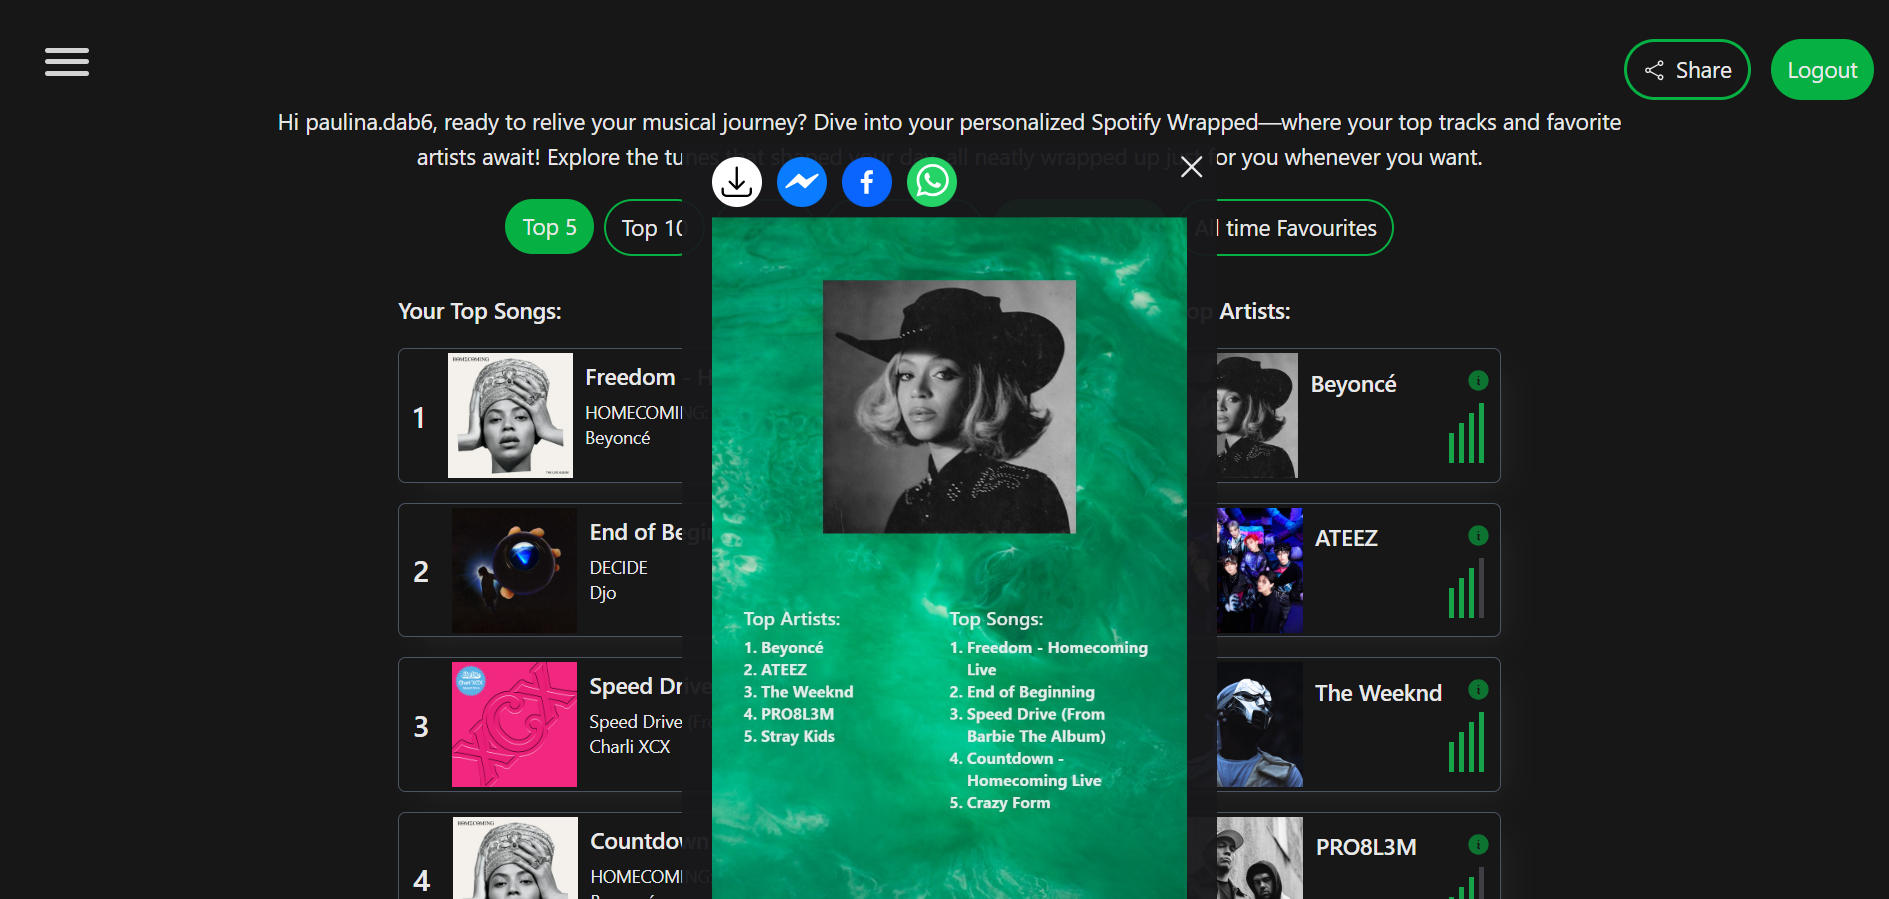
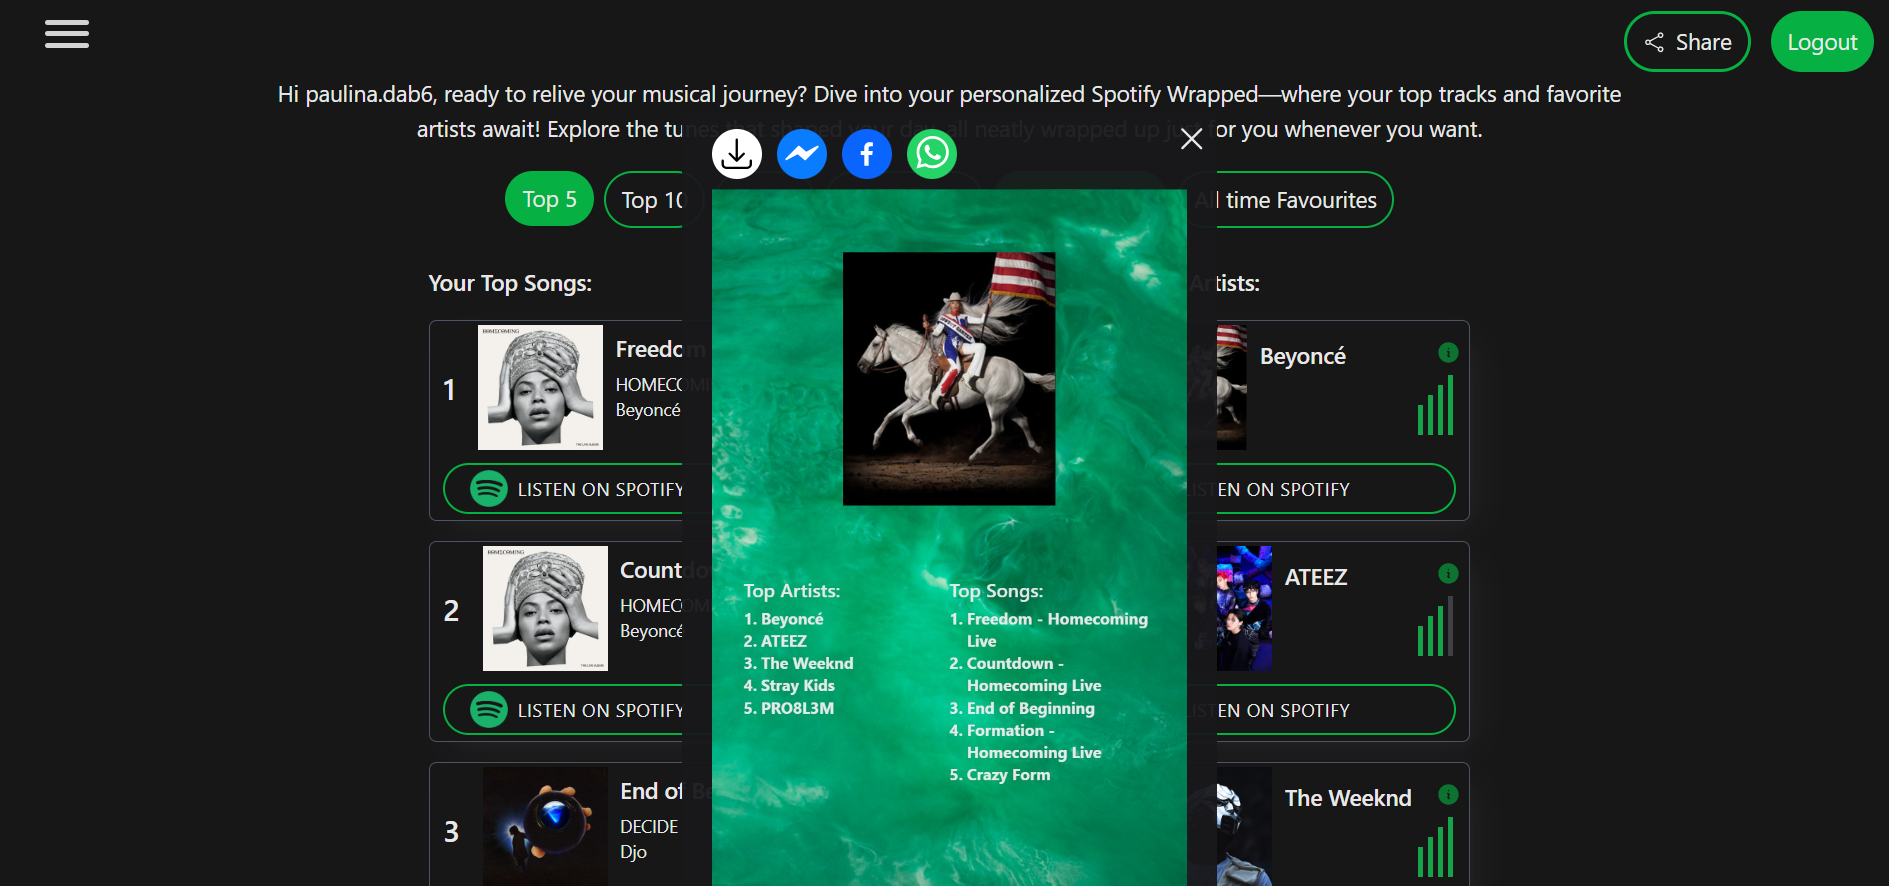
update to spotify policy

Changed region(s): [[0.1562, 0.0, 0.9995, 1.0], [0.0, 0.0305, 0.0625, 0.0914]]

diff --git a/src/components/Track.jsx b/src/components/Track.jsx
@@ -1,4 +1,5 @@
 import React, { useEffect, useState } from 'react';
+import { Link} from 'react-router-dom';
 import axios from 'axios';
 //icons
 import { InformationCircleIcon } from '@heroicons/react/24/solid';
@@ -36,42 +37,63 @@ export const Track = ({track, number, token}) => {
   const toggle = () =>{setIsInfoVisible(!isInfoVisible)}
 
   return (
-    <div className='flex items-center justify-between min-h-[90px] border-solid border-[1px] border-gray-600 rounded-md my-4 p-[3px] shadow-[10px_10px_25px_-10px_rgba(110,110,110,0.2)] bg-inherit animate-fadeUp'>
+    <div className='min-h-[90px] border-solid border-[1px] border-gray-600 rounded-md my-4 p-[3px] shadow-[10px_10px_25px_-10px_rgba(110,110,110,0.2)] bg-inherit animate-fadeUp'>
       <div
-        className='bg-inherit flex'
+        className='flex items-center justify-between mb-[10px]'
       >
-        <p
-          className='px-[8px] text-xl sm:text-2xl font-semibold bg-inherit my-auto'
-        >
-          {nr + 1}
-        </p>
-        <img 
-          src={window.innerWidth <= 650 ? track.album.images[2].url : track.album.images[1].url}
-          className='max-w-[100px] my-[5px] mx-[10px] my-auto'
-          alt='Song'
-        />
         <div
-          className='bg-inherit h-full flex flex-col justify-start mt-[5px]'
+          className='bg-inherit flex'
         >
-          <p className='bg-inherit text-sm sm:text-lg font-semibold mb-[4px]'>{track.name}</p>
-          <p className='bg-inherit text-[12px] sm:text-sm'>{track.album.name}</p>
-          <p className='bg-inherit text-[12px] sm:text-sm'>{track.artists[0].name}</p>
+          <p
+            className='px-[8px] text-xl sm:text-2xl font-semibold bg-inherit my-auto'
+          >
+            {nr + 1}
+          </p>
+          <img 
+            src={window.innerWidth <= 650 ? track.album.images[2].url : track.album.images[1].url}
+            className='max-w-[100px] my-[5px] mx-[10px] my-auto'
+            alt='Song'
+          />
+          <div
+            className='bg-inherit h-full flex flex-col justify-start mt-[5px]'
+          >
+            <p className='bg-inherit text-sm sm:text-lg font-semibold mb-[4px]'>{track.name}</p>
+            <p className='bg-inherit text-[12px] sm:text-sm'>{track.album.name}</p>
+            <p className='bg-inherit text-[12px] sm:text-sm'>{track.artists[0].name}</p>
+          </div>
+        </div>
+
+        <div className='popularity-rate bg-inherit ml-[5px] mr-[10px] flex flex-col items-end relative'>
+          <button 
+            className='bg-inherit mb-2 mr-[-6px] p-0 opacity-60'
+            onClick={toggle}
+          >
+            <InformationCircleIcon 
+              className='w-5 h-5 text-spotify-basic-green bg-inherit m-0'
+            />
+          </button>
+          <div className={isInfoVisible ? 'absolute text-xs left-[-600%] right-[15px] top-[-10%] p-1 bg-gray-300 text-gray-950' : 'hidden absolute text-xs left-[-600%] right-[15px] top-[-10%] p-1 bg-gray-300 text-gray-950'}>
+            The popularity of the track in the US. The value will be between 0 and 100. One column shows the range of 25 points.
+          </div>
+          <PopularityRate rate={trackPopularity}/>
         </div>
       </div>
-
-      <div className='popularity-rate bg-inherit ml-[5px] mr-[10px] flex flex-col items-end relative'>
-        <button 
-          className='bg-inherit mb-2 mr-[-6px] p-0 opacity-60'
-          onClick={toggle}
+      <div
+        className='border-solid border-2 border-spotify-basic-green rounded-full px-[20px] py-[4px] cursor-pointer mx-2 my-[2px] hover:animate-pulse'
+      >
+        <Link
+          className='flex gap-2 items-center'
+          to={track.external_urls.spotify}
+          target="_blank"
         >
-          <InformationCircleIcon 
-            className='w-5 h-5 text-spotify-basic-green bg-inherit m-0'
+          <img 
+            src={require('../images/Spotify_Icon_CMYK_Green.png')} alt='spotify-icon'
+            className='w-[30px] h-[30px]'
           />
-        </button>
-        <div className={isInfoVisible ? 'absolute text-xs left-[-600%] right-[15px] top-[-10%] p-1 bg-gray-300 text-gray-950' : 'hidden absolute text-xs left-[-600%] right-[15px] top-[-10%] p-1 bg-gray-300 text-gray-950'}>
-          The popularity of the track in the US. The value will be between 0 and 100. One column shows the range of 25 points.
-        </div>
-        <PopularityRate rate={trackPopularity}/>
+          <p
+            className='text-[12px] sm:text-[14px] tracking-wider'
+          >LISTEN ON SPOTIFY</p>
+        </Link>
       </div>
     </div>
   )

diff --git a/src/components/Artist.jsx b/src/components/Artist.jsx
@@ -1,4 +1,5 @@
 import React, {useState, useEffect} from 'react';
+import { Link} from 'react-router-dom';
 import axios from 'axios';
 //icons
 import { InformationCircleIcon } from '@heroicons/react/24/solid';
@@ -36,43 +37,65 @@ export const Artist = ({artist, number, token}) => {
   const toggle = () =>{setIsInfoVisible(!isInfoVisible)}
 
   return (
-    <div className='flex items-center justify-between min-h-[90px] border-solid border-[1px] border-gray-600 rounded-md my-4 p-[3px] shadow-[10px_10px_25px_-10px_rgba(110,110,110,0.2)] bg-inherit animate-fadeUp'>
+    <div className='min-h-[90px] border-solid border-[1px] border-gray-600 rounded-md my-4 p-[3px] shadow-[10px_10px_25px_-10px_rgba(110,110,110,0.2)] bg-inherit animate-fadeUp'>
       <div
-        className='bg-inherit flex'
+        className='flex items-center justify-between mb-[10px]'
       >
-        <p
-        className='px-[8px] text-2xl font-semibold bg-inherit my-auto'
+        <div
+          className='bg-inherit flex'
         >
-          {nr + 1}
-        </p>
-        <div className='bg-inherit max-h-[120px] flex justify-items-center'>
-          <img 
-            src={window.innerWidth <= 650 ? artist.images[2].url : artist.images[1].url}
-            className='max-h-[100px] my-[5px] mx-[10px] my-auto'
-            alt='Artist'
-          />
+          <p
+          className='px-[8px] text-2xl font-semibold bg-inherit my-auto'
+          >
+            {nr + 1}
+          </p>
+          <div className='bg-inherit max-h-[120px] flex justify-items-center'>
+            <img 
+              src={window.innerWidth <= 650 ? artist.images[2].url : artist.images[1].url}
+              className='max-h-[100px] my-[5px] mx-[10px] my-auto'
+              alt='Artist'
+            />
+          </div>
+
+          <div
+            className='bg-inherit h-full flex flex-col justify-start'
+          >
+            <p className='bg-inherit font-semibold mt-[10px]'>{artist.name}</p>
+          </div>
         </div>
 
-        <div
-          className='bg-inherit h-full flex flex-col justify-start'
-        >
-          <p className='bg-inherit font-semibold mt-[10px]'>{artist.name}</p>
+        <div className='popularity-rate bg-inherit ml-[5px] mr-[10px] flex flex-col items-end relative'>
+          <button 
+            className='bg-inherit mb-2 mr-[-6px] p-0 opacity-60'
+            onClick={toggle}
+          >
+            <InformationCircleIcon 
+              className='w-5 h-5 text-spotify-basic-green bg-inherit m-0'
+            />
+          </button>
+          <div className={isInfoVisible ? 'absolute text-xs left-[-600%] right-[15px] top-[-10%] p-1 bg-gray-300 text-gray-950' : 'hidden absolute text-xs left-[-600%] right-[15px] top-[-10%] p-1 bg-gray-300 text-gray-950'}>
+            The popularity of the artist in the US. The value will be between 0 and 100. One column shows the range of 25 points.
+          </div>
+          <PopularityRate rate={artistPopularity}/>
         </div>
       </div>
 
-      <div className='popularity-rate bg-inherit ml-[5px] mr-[10px] flex flex-col items-end relative'>
-        <button 
-          className='bg-inherit mb-2 mr-[-6px] p-0 opacity-60'
-          onClick={toggle}
+      <div
+        className='border-solid border-2 border-spotify-basic-green rounded-full px-[20px] py-[4px] cursor-pointer mx-2 my-[2px] hover:animate-pulse'
+      >
+        <Link
+          className='flex gap-2 items-center'
+          to={artist.external_urls.spotify}
+          target="_blank"
         >
-          <InformationCircleIcon 
-            className='w-5 h-5 text-spotify-basic-green bg-inherit m-0'
+          <img 
+            src={require('../images/Spotify_Icon_CMYK_Green.png')} alt='spotify-icon'
+            className='w-[30px] h-[30px]'
           />
-        </button>
-        <div className={isInfoVisible ? 'absolute text-xs left-[-600%] right-[15px] top-[-10%] p-1 bg-gray-300 text-gray-950' : 'hidden absolute text-xs left-[-600%] right-[15px] top-[-10%] p-1 bg-gray-300 text-gray-950'}>
-          The popularity of the artist in the US. The value will be between 0 and 100. One column shows the range of 25 points.
-        </div>
-        <PopularityRate rate={artistPopularity}/>
+          <p
+            className='text-[12px] sm:text-[14px] tracking-wider'
+          >LISTEN ON SPOTIFY</p>
+        </Link>
       </div>
     </div>
   )

diff --git a/src/pages/Login.js b/src/pages/Login.js
@@ -7,7 +7,7 @@ import {motion} from 'framer-motion';
 
 export const Login = () => {
   const client_id = '132a9595d7f0453eab534d3118ac4c6d';
-  const redirect_uri = 'https://your-stats-spotify.web.app/';
+  const redirect_uri = 'http://localhost:3000';
   const auth_endpoint = 'https://accounts.spotify.com/authorize';
   const response_type ='token';
   const scope = 'user-top-read';
@@ -34,9 +34,9 @@ export const Login = () => {
       animate={{opacity: 1}}
       exit={{opacity: 0}}
     >
-      <h1 className='text-3xl font-bold'>StatsSpotify</h1>
+      <h1 className='text-3xl font-bold'>MusicStats</h1>
       <p className='text-center max-w-[70vw]'>
-        Welcome to StatsSpotify, your gateway to a personalized music journey through data insights. Explore your top songs and artists over 1 year, 6 months, and 4 weeks, tracing the evolution of your music taste from enduring favorites to recent discoveries. Beyond playlists, delve into detailed analyses of Spotify user data and music stream worldwide through PowerBI tables.
+        Welcome to MusicStats, your gateway to a personalized music journey through data insights. Explore your top songs and artists on Spotify over 1 year, 6 months, and 4 weeks, tracing the evolution of your music taste from enduring favorites to recent discoveries. Beyond playlists, delve into detailed analyses of Spotify user data and music stream worldwide through PowerBI tables.
       </p>
       <a href={`${auth_endpoint}?client_id=${client_id}&redirect_uri=${redirect_uri}&response_type=${response_type}&scope=${scope}&show_dialog=${show_dialog}`}
       className='bg-spotify-basic-green rounded-full py-[8px] px-[13px] hover:bg-[#179a17]'

diff --git a/src/pages/About.js b/src/pages/About.js
@@ -18,9 +18,9 @@ export const About = () => {
       >
         <h1
           className='text-lg font-bold'
-        >What is StatsSpotify?</h1>
+        >What is MusicStats?</h1>
         <p>
-          StatsSpotify is a web app designed to offer users an insightful glimpse into their Spotify listening habits whenever they want. The focus is on two key elements - top artists and top songs. The user is also able to check the popularity of the song/artist they listened to.
+        MusicStats is a web app designed to offer users an insightful glimpse into their Spotify listening habits whenever they want. The focus is on two key elements - top artists and top songs. The user is also able to check the popularity of the song/artist they listened to.
           &#40;
           <button
             className='underline text-violet-200 hover:text-violet-400'
@@ -33,7 +33,7 @@ export const About = () => {
             more about popularity&gt;&gt;
           </button>
           &#41; <br/><br/>
-          In StatsSpotify the Spotify Web API is used. The official documentation and more about policies of Spotify API:
+          In MusicStats the Spotify Web API is used. The official documentation and more about policies of Spotify API:
           <Link 
             to={'https://developer.spotify.com/documentation/web-api'}
             className='underline ml-[3px] text-violet-200 hover:text-violet-400'

diff --git a/public/index.html b/public/index.html
@@ -9,7 +9,7 @@
       name="description"
       content="Web site created using create-react-app"
     />
-    <title>StatsSpotify</title>
+    <title>MusicStats</title>
   </head>
   <body>
     <div id="root"></div>

diff --git a/README.md b/README.md
@@ -1,6 +1,6 @@
-## About The StatsSpotify:
+## About The MusicStats:
 It is a responsive web app, which allows the user to check their Spotify wrapped and share/download the result. Made with Spotify API.
-StatsSpotify has the section which showcase the analysis of Spotify user behavior and most streamed songs in 2023 (based on Kaggle datasets). The dashboards were created in Power BI
+MusicStats has the section which showcase the analysis of Spotify user behavior and most streamed songs in 2023 (based on Kaggle datasets). The dashboards were created in Power BI
 
 This website is still in development, because of Spotify Policy if you want to login you have to be added manually as the user by me.
 ## Link to the website:
@@ -8,7 +8,7 @@ Access my site at https://your-stats-spotify.web.app/
 ## Table of Content:
 <ul>
   <li>
-    <a href="#about-the-StatsSpotify">About the App</a>
+    <a href="#about-the-MusicStats">About the App</a>
   </li>
   <li>
     <a href="#screenshots">Screenshots</a>
